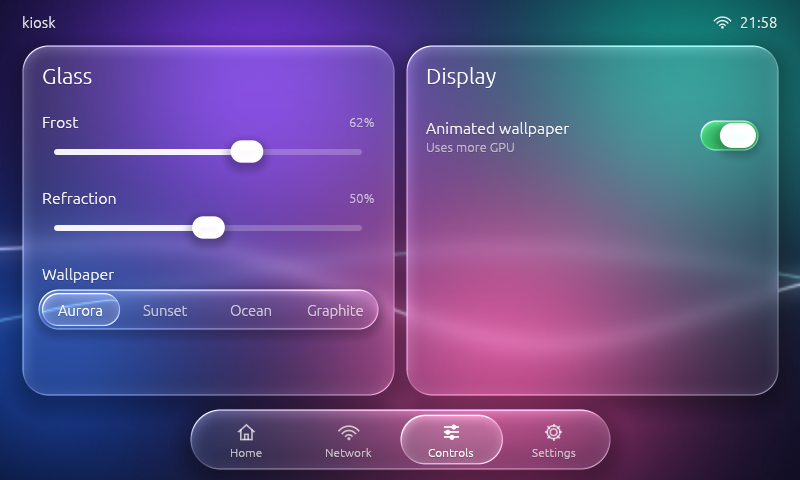
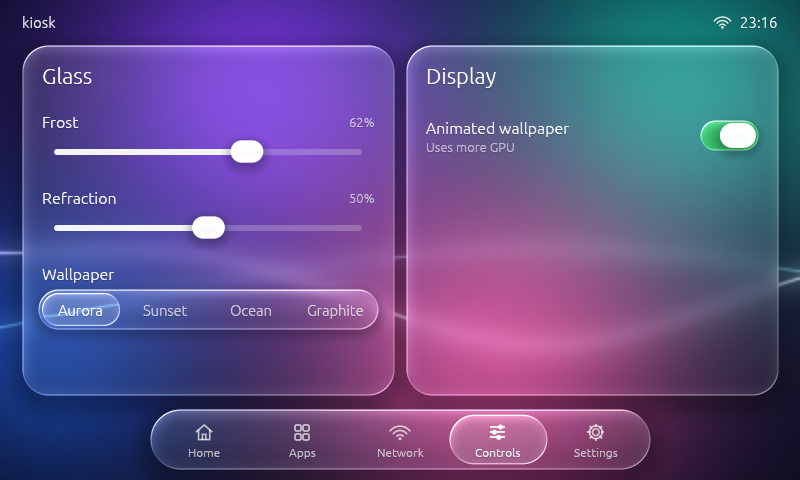
docs: README for the app store and three boards, new screenshots, CHANGELOG; release 0.2.0; build.sh BOARD

diff --git a/README.md b/README.md
@@ -18,9 +18,11 @@ DRM/KMS and OpenGL ES 2, without X11 or Wayland. It includes on-device touchscre
 |---|---|
 | Kernel | Raspberry Pi kernel 6.12 (arm64), KMS graphics |
 | Init | systemd, read-only root filesystem, logs in RAM |
+| Boards | Raspberry Pi 3B, Pi 4 and Pi 5, one image per board |
 | Display | Waveshare 5inch HDMI LCD (B): 800×480, USB touch |
-| Graphics | DRM/KMS + Mesa VC4: EGL, GLES2, GBM (no X11/Wayland needed) |
+| Graphics | DRM/KMS + Mesa (VC4 on the Pi 3B, VC4 + V3D on the Pi 4 and 5): EGL, GLES2, GBM, no X11/Wayland |
 | App | `kiosk-ui`: Rust + egui with liquid-glass widgets, touch via libinput |
+| Apps | installable packages (`.kpkg`) from a signed store or from the SD card, one on screen at a time |
 | Network | Ethernet + onboard WiFi (DHCP or static), DNS, NTP, mDNS (`kiosk.local`) |
 | Maintenance | SSH with public keys only, off unless you provide a key |
 | Robustness | hardware watchdog, app auto-restart, reboot on crash loop, kernel panic auto-reboot |
@@ -44,6 +46,8 @@ Requires Docker. On Apple Silicon it builds natively (Buildroot compiles its own
 ```
 
 Flash `out/sdcard.img` with Raspberry Pi Imager ("Use custom") or `dd`.
+
+`BOARD=rpi4 ./build.sh` or `BOARD=rpi5 ./build.sh` build the other boards into `out/sdcard-<board>.img`.
 
 Other commands: `./build.sh app`, `./build.sh menuconfig`, `./build.sh savedefconfig`, `./build.sh shell`, `./build.sh clean`.
 
@@ -94,8 +98,9 @@ custom GLES 2 shader. It draws straight to the display through DRM/KMS + GBM + E
 Wayland), and reads touch, mouse and keyboard through libinput.
 
 The layout adapts: a compact design for 800×480 panels, a roomier one from 1280×720 up
-(`docs/kiosk-ui-1280x720.png`). Four pages, switched with the floating tab bar, a horizontal swipe or the arrow keys:
+(`docs/kiosk-ui-1280x720.png`). Five pages, switched with the floating tab bar, a horizontal swipe or the arrow keys:
 - **Home**: clock, date, network address, uptime, CPU temperature and memory
+- **Apps**: the installed apps as tiles, and the Store (see [Apps and the app store](#apps-and-the-app-store))
 - **Network**: interfaces with addresses and state, WiFi signal, gateway, DNS
 - **Controls**: frost and refraction sliders, wallpaper themes, brightness (on panels with a
   backlight), animated-wallpaper toggle
@@ -149,23 +154,73 @@ kiosk-ui/src/headless.rs   offscreen rendering, screenshots, UI test
 kiosk-ui/src/desktop.rs    eframe window for development
 ```
 
-## Apps (in development)
+## Apps and the app store
 
-Apps are packages (`.kpkg`) that run one at a time on the display; kiosk-ui is always home. The
-plan is in [docs/app-store.md](docs/app-store.md). What works today:
+![The Apps page: installed apps as glass tiles and the Store tile](docs/kiosk-ui-apps.png)
+
+Apps are packages (`.kpkg`) built on [`kiosk-kit`](kiosk-kit/), the crate kiosk-ui itself uses for the
+display, touch and the glass look. **One app owns the screen at a time**: tapping a tile stops kiosk-ui
+and starts the app, and kiosk-ui comes back when the app ends. **Hold the top-right corner of the
+screen for 3 seconds** to leave an app, even a hung one. The design and what was built in each phase
+are in [docs/app-store.md](docs/app-store.md).
+
+| Where apps come from | How |
+|---|---|
+| The signed store | set `STORE_URL` in `kiosk.conf`. The store is a [TUF](https://theupdateframework.io) repository ([pikiosk-apps](https://github.com/pierrejochem/pikiosk-apps) is the publisher): every package is checked for signature, expiry, rollback and hash before it is unpacked. The board checks it only after NTP has set the clock |
+| The SD card | development only: put `.kpkg` files in an `apps` folder on `KIOSKBOOT` and set `STORE_ALLOW_UNSIGNED=yes` |
+
+Both are **off by default**: with an empty `STORE_URL` and no `STORE_PIN`, the Store tile is hidden
+and nobody can install anything. Installed apps never need the network.
+
+![The admin PIN keypad](docs/kiosk-ui-pin.png)
+
+**Admin PIN.** Installing, updating and removing apps needs the PIN from `STORE_PIN` in `kiosk.conf`
+(4 to 8 digits). The Store tile asks for it on a glass keypad. kioskd checks the PIN; kiosk-ui only
+holds a token that ends 60 s after the last touch. After 3 wrong PINs every PIN is refused for
+`STORE_PIN_LOCKOUT` seconds (default 300), and pulling the power does not reset that. Anyone who can
+read the SD card can read the PIN in `kiosk.conf`.
+
+![The Store catalog](docs/kiosk-ui-catalog.png)
+
+**Installs and updates** replace the old version in one atomic step, so pulling the power mid-install
+leaves the previous version running. The app's own data in `/data/store/data/<id>` survives updates
+and re-flashing.
+
+![An app's detail page](docs/kiosk-ui-detail.png)
+
+**Health gate and rollback.** The first time a new version runs it has 30 s to stay up. If it crashes
+instead, the kiosk switches back to the previous version, deletes and blocks the bad one, and shows a
+notice.
+
+![The rollback notice](docs/kiosk-ui-rollback.png)
+
+### Store settings in `kiosk.conf`
+
+| Key | Default | Meaning |
+|---|---|---|
+| `STORE_URL` | empty (store off) | base URL of the store, e.g. `https://example.github.io/pikiosk-apps`; the board reads `<url>/<channel>/metadata` and `/targets` |
+| `STORE_CHANNEL` | `stable` | `stable` or `beta` |
+| `STORE_PIN` | empty (nobody is admin) | 4 to 8 digits |
+| `STORE_PIN_LOCKOUT` | `300` | seconds every PIN is refused after 3 wrong ones |
+| `STORE_ALLOW_UNSIGNED` | `no` | install unsigned `.kpkg` files from `/boot/apps` (development) |
+| `KIOSK_HOME_GESTURE` | `yes` | the 3 s top-right hold that leaves an app |
+
+### Publishing an app
+
+An app is a Rust crate that implements `kiosk_kit::App` and calls `kiosk_kit::run`, plus a
+`manifest.toml` and a 128×128 icon. Start from `apps/hello` in
+[pikiosk-apps](https://github.com/pierrejochem/pikiosk-apps), which also holds the key ceremony, the
+publish workflow and the instructions. Each release attaches an SDK (`pikiosk-<version>-sdk-aarch64.tar.gz`)
+whose sysroot the workflow links against, so one binary runs on all three boards.
 
 ```sh
-cargo run --release -p kpkg -- build my-app/ -o my-app.kpkg   # lints manifest.toml, icon, entry
+cargo run --release -p kpkg -- build my-app/ -o my-app.kpkg   # lints manifest.toml, icon and entry
+cargo run --release -p kpkg -- inspect my-app.kpkg
 ```
 
-Apps can also come from a signed store (a TUF repository, see
-[pikiosk-apps](https://github.com/pierrejochem/pikiosk-apps)): set `STORE_URL` in `kiosk.conf`. The board
-checks the store only after NTP has set the clock; installed apps run without the network.
-
-Copy the package to an `apps` folder on the `KIOSKBOOT` partition, set `STORE_ALLOW_UNSIGNED=yes` in
-`kiosk.conf`, and install it from **Apps → Local packages** on the touchscreen. Tap an app tile to
-start it; hold the top-right corner of the screen for 3 seconds to go back to kiosk-ui. Installs
-are atomic: pulling the power during one leaves the previous version in place.
+> The trust anchor in this repository (`package/kioskd/root.json`) is a **development root**: its
+> private keys are on the maintainer's machine. Do not publish to real devices before running the key
+> ceremony from pikiosk-apps and building a new image with the new `root.json`.
 
 ## Running a different app
 
@@ -228,17 +283,21 @@ board/common/post-build.sh         disables all logins, wires ro rootfs to /run 
 board/common/rootfs-overlay/       systemd units, network files, config scripts
 board/common/boot/                 files placed on the FAT partition
 board/common/linux.fragment        kernel options shared by all boards
-Cargo.toml                         Cargo workspace: kiosk-ui and kiosk-kit
-kiosk-kit/                         display, touch and glass widgets as a library
-kiosk-ui/                          the kiosk app (Rust, egui, liquid glass)
-package/kiosk-ui/                  Buildroot package for it
+Cargo.toml                         Cargo workspace
+kiosk-kit/                         display, touch and glass widgets as a library (what apps build on)
+kiosk-ui/                          the kiosk app (Rust, egui, liquid glass), with the Apps page
+kioskd/                            root daemon: launches apps, Home gesture, installs, PIN, health gate
+kpkg/                              .kpkg format and tool: build, inspect, verify, catalog
+package/kiosk-ui, package/kioskd/  Buildroot packages (kioskd carries the trust anchor root.json)
+CHANGELOG.md                       what changed in each release
 build.sh, docker/                  containerised build
 ```
 
 ## Notes
 
 - The serial console on GPIO 14/15 (115200 baud) prints kernel messages only; there is no shell on it.
-- The board has no RTC, so the clock is correct only after NTP sync over the network.
+- The board has no RTC (the Pi 5 has one, with an optional battery), so the clock is correct only after NTP sync. The store checks for updates only after that.
+- The Pi 4 and Pi 5 images are built by CI and have not been run on hardware yet; both need a micro-HDMI adapter for the Waveshare panel. The Pi 3B is the tested board.
 - WPA3-only networks will not work: the Pi 3B's WiFi chip does not support SAE. WPA2 and WPA2/WPA3 mixed mode work.
 - Debugging over SSH: `journalctl -u kiosk -f`, `networkctl`, `wpa_cli -i wlan0 status`.
 - The kiosk-ui build downloads its Rust crates during `./build.sh` (versions pinned by `Cargo.lock`),

diff --git a/CHANGELOG.md b/CHANGELOG.md
@@ -1,0 +1,31 @@
+# Changelog
+
+## 0.2.0
+
+Raspberry Pi 4 and Pi 5, and apps.
+
+**Boards**
+- Images for the Raspberry Pi 4 and Pi 5 next to the Pi 3B (`pikiosk-<version>-<board>-sdcard.img.xz`). They are built by CI and have not been run on hardware yet.
+- `BOARD=rpi4 ./build.sh` and `BOARD=rpi5 ./build.sh` build them locally. The release also carries the SDK that apps are built against.
+
+**Apps**
+- New **Apps** page and a Store behind an admin PIN. Apps are `.kpkg` packages that run one at a time; hold the top-right corner for 3 s to go back to kiosk-ui.
+- `kioskd`: root daemon that launches apps as systemd units, installs and removes them atomically (a power cut leaves the old version running), and checks the admin PIN. 3 wrong PINs lock it for `STORE_PIN_LOCKOUT` seconds, across power cuts.
+- A new version must stay up 30 s the first time it runs. If it crashes, the kiosk goes back to the previous version, blocks the bad one and shows a notice.
+- Signed store: a TUF repository checked for signature, expiry, rollback and hash, only after NTP has set the clock. Set `STORE_URL` and `STORE_CHANNEL` in `kiosk.conf`. Off by default.
+- `kpkg`: build, inspect and verify packages, and generate the store catalog.
+- `kiosk-kit`: the display, touch and glass code, split out of kiosk-ui as a library for apps.
+- New keys in `kiosk.conf`: `STORE_URL`, `STORE_CHANNEL`, `STORE_PIN`, `STORE_PIN_LOCKOUT`, `STORE_ALLOW_UNSIGNED`, `KIOSK_HOME_GESTURE`.
+
+**Changed**
+- The repository is a Cargo workspace (`kiosk-ui`, `kiosk-kit`, `kioskd`, `kpkg`). Shared board files moved to `board/common/`.
+- The tab bar has five tabs; Apps is second.
+- The touch Home gesture reads the panel's multitouch tracking id: the Waveshare panel sends no `BTN_TOUCH`.
+
+**Known limits**
+- The trust anchor in the image (`package/kioskd/root.json`) is a development root. Run the key ceremony in pikiosk-apps and rebuild before publishing to real devices.
+- No installs from cached metadata while offline, no signed packages from USB sticks, and `min_os` is not enforced yet.
+
+## 0.1.0
+
+First release: Raspberry Pi 3B image with kiosk-ui, touch calibration and a read-only root.

diff --git a/docs/app-store.md b/docs/app-store.md
@@ -2,6 +2,8 @@
 
 Oct 20, 2026 · @Pierre Jochem
 
+**Status (v0.2.0):** all seven phases are built; the Pi 3B was tested on hardware for phases 3 to 6. The Pi 4 and Pi 5 images are built by CI and still need a first run on hardware. See the status sections at the end for what differs from this plan.
+
 UI sketch: Design canvas "pikiosk Apps page" (https://claude.ai/artifact/DrLwMSn99S25ToFUaZxoon).
 
 ## Overview
